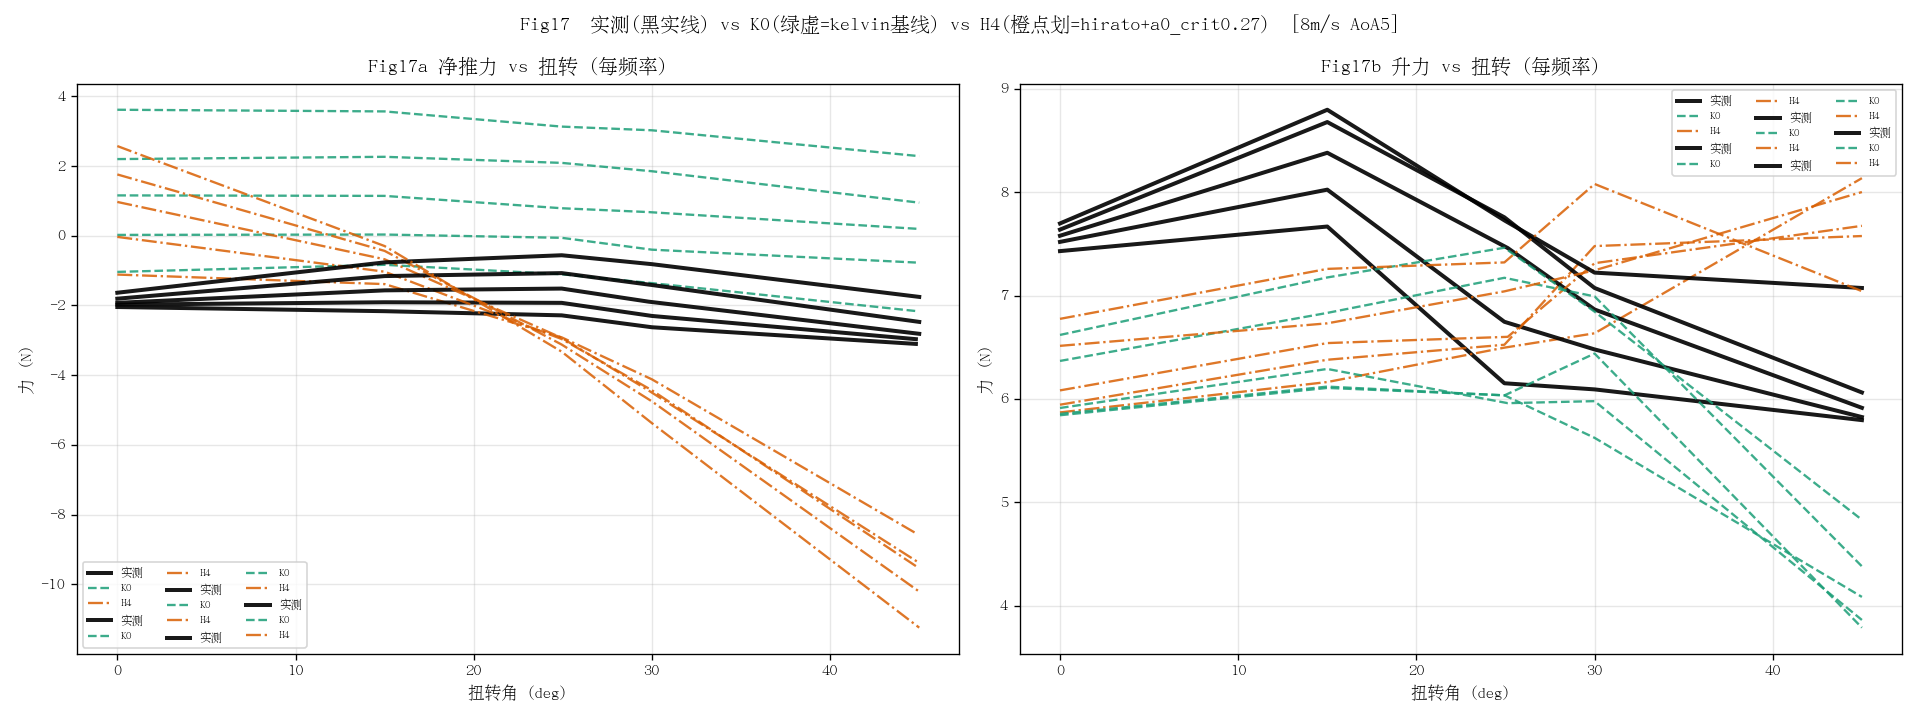
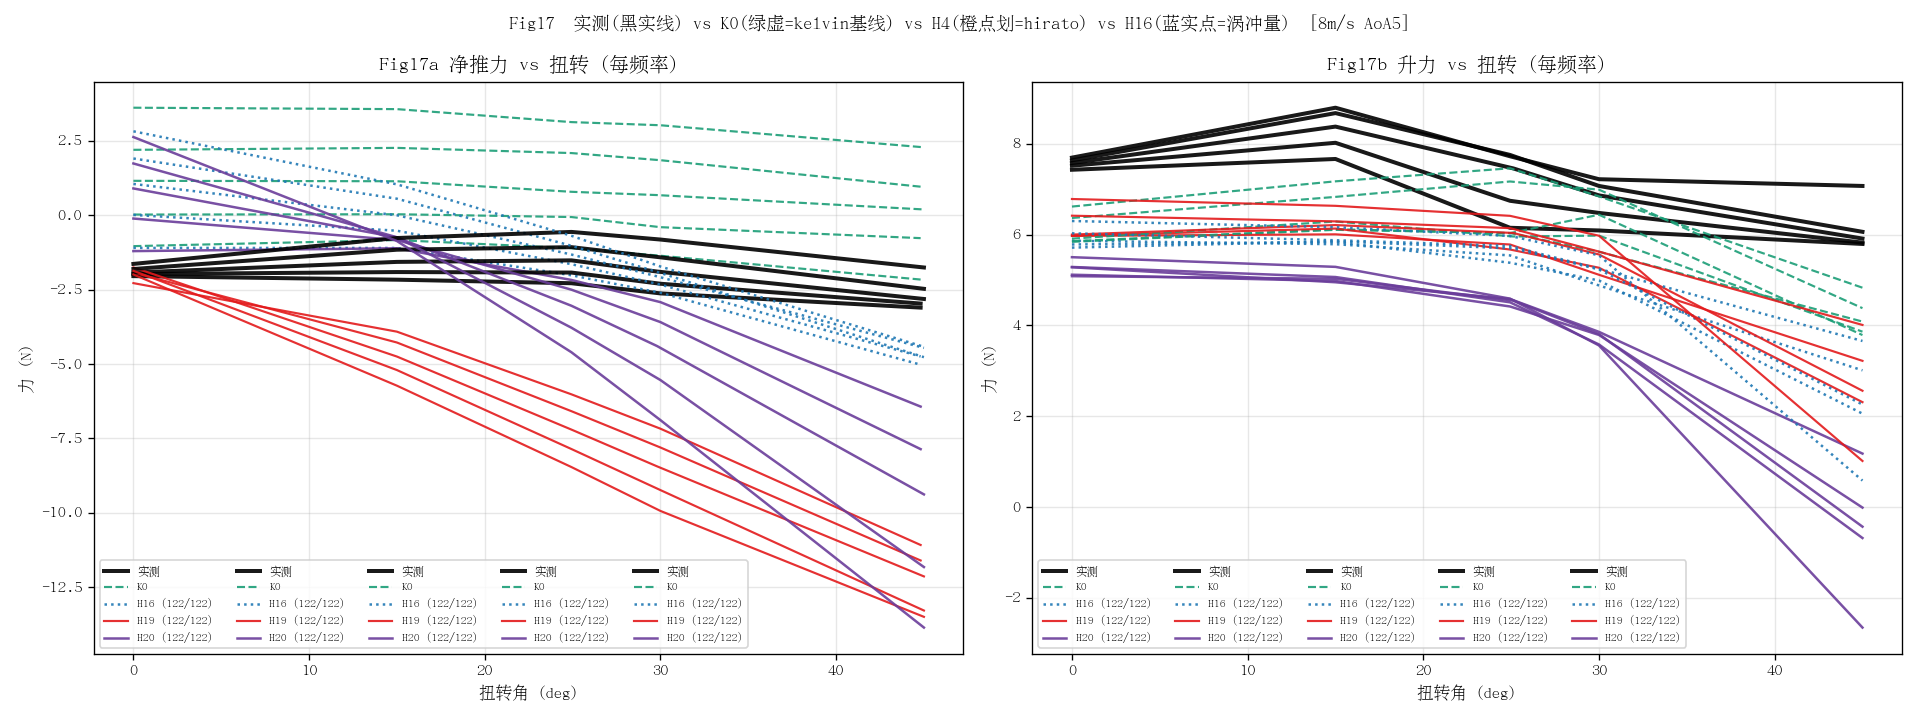
docs(P1 review): H20 full sweep — double-count fixed, flat-plate CN over-predicts (H16 still best)
H20 (kirch_blend, 122 conds): mean -1.36 (H19 -4.70), MAE 3.69, sign 71%. Per-figure T
MAE Fig17/18/19 = 3.05/3.78/3.83 (H16 = 1.38/2.43/2.10). Double-count structurally gone
(single vector) but flat-plate CN cd_form=1.98 over-predicts the separated normal force ->
H20 worse than H16 on MAE. Confirms: bug fixed, residual = separated-flow fidelity +
dynamic-stall timescale (for P2 FSI + proper separated-flow model). H16 stays production
best. Report §5.0 + plots updated.

diff --git a/platform/plot_overlay.py b/platform/plot_overlay.py
@@ -20,10 +20,12 @@ R = json.load(open(os.path.join(DOCS, 'repro_data.json')))
 CACHES = {
     'K0': json.load(open(os.path.join(OD, 'cache_nc4_cyc3_fix.json'))),
     'H4': json.load(open(os.path.join(OD, 'cache_nc4_cyc3_H4.json'))),
-    'H2': json.load(open(os.path.join(OD, 'cache_nc4_cyc3_H2.json'))),
+    'H16': json.load(open(os.path.join(OD, 'cache_nc4_cyc3_H16.json'))) if os.path.exists(os.path.join(OD, 'cache_nc4_cyc3_H16.json')) else {},
+    'H19': json.load(open(os.path.join(OD, 'cache_nc4_cyc3_H19.json'))) if os.path.exists(os.path.join(OD, 'cache_nc4_cyc3_H19.json')) else {},
+    'H20': json.load(open(os.path.join(OD, 'cache_nc4_cyc3_H20.json'))) if os.path.exists(os.path.join(OD, 'cache_nc4_cyc3_H20.json')) else {},
 }
-COL = {'exp': 'k', 'K0': '#1b9e77', 'H4': '#d95f02', 'H2': '#7570b3'}
-LW  = {'exp': 2.4, 'K0': 1.4, 'H4': 1.4, 'H2': 1.0}
+COL = {'exp': 'k', 'K0': '#1b9e77', 'H4': '#d95f02', 'H16': '#1f78b4', 'H19': '#e31a1c', 'H20': '#6a3d9a'}
+LW  = {'exp': 2.4, 'K0': 1.3, 'H4': 1.3, 'H16': 1.5, 'H19': 1.3, 'H20': 1.5}
 
 def pred_line(cache, key):
     kind = R[key]['kind']; out = []
@@ -36,16 +38,19 @@ def mae(a, b):
     m = np.isfinite(a) & np.isfinite(b); return float(np.mean(np.abs(a[m]-b[m]))) if m.sum() else float('nan')
 
 def draw(ax, keys, title, xlabel):
+    n = {c: len(CACHES.get(c, {})) for c in ('H16', 'H19', 'H20')}
     for i, k in enumerate(keys):
         if k not in R: continue
         x = R[k]['x']; exp = np.array(R[k]['exp'], float)
         shade = i == 0
         ax.plot(x, exp, '-', color=COL['exp'], lw=LW['exp'], alpha=0.9, label='实测' if shade else None)
-        for c in ('K0', 'H4'):
+        for c in ('K0', 'H16', 'H19', 'H20'):
+            if c in n and n[c] == 0: continue
             p = pred_line(CACHES[c], k)
-            ax.plot(x, p, '--' if c == 'K0' else '-.', color=COL[c], lw=LW[c], alpha=0.85,
-                    label=f'{c}' if shade else None)
-    ax.set_title(title, fontsize=11); ax.set_xlabel(xlabel); ax.set_ylabel('力 (N)'); ax.grid(alpha=0.3); ax.legend(fontsize=7, ncol=3)
+            ls = '--' if c == 'K0' else (':' if c == 'H16' else ('-' if c in ('H19','H20') else '-.'))
+            lab = f'{c} ({n[c]}/122)' if (c in n and shade) else (c if shade else None)
+            ax.plot(x, p, ls, color=COL[c], lw=LW[c], alpha=0.9, label=lab)
+    ax.set_title(title, fontsize=11); ax.set_xlabel(xlabel); ax.set_ylabel('力 (N)'); ax.grid(alpha=0.3); ax.legend(fontsize=7, ncol=5)
 
 # ---- Fig17: thrust(a)+lift(b) vs twist, 5 freqs (8m/s AoA5) ----
 FREQS = [1.4, 1.7, 2.0, 2.3, 2.6]
@@ -54,7 +59,7 @@ for f in FREQS:
     draw(ax[0], [f'17|a|{f}'], '', ''); draw(ax[1], [f'17|b|{f}'], '', '')
 ax[0].set_title('Fig17a 净推力 vs 扭转 (每频率)'); ax[1].set_title('Fig17b 升力 vs 扭转 (每频率)')
 for a in ax: a.set_xlabel('扭转角 (deg)')
-fig.suptitle('Fig17  实测(黑实线) vs K0(绿虚=kelvin基线) vs H4(橙点划=hirato+a0_crit0.27)  [8m/s AoA5]', fontsize=12)
+fig.suptitle('Fig17  实测(黑实线) vs K0(绿虚=kelvin基线) vs H4(橙点划=hirato) vs H16(蓝实点=涡冲量)  [8m/s AoA5]', fontsize=11)
 fig.tight_layout(); fig.savefig(os.path.join(DOCS, 'compare_fig17.png'), dpi=120); plt.close(fig)
 
 # ---- Fig18: thrust(a)+lift(b) vs freq, 3 winds (twist0, AoA5) ----
@@ -64,7 +69,7 @@ for U in WINDS:
     draw(ax[0], [f'18|a|{U}'], '', ''); draw(ax[1], [f'18|b|{U}'], '', '')
 ax[0].set_title('Fig18a 净推力 vs 频率 (每风速)'); ax[1].set_title('Fig18b 升力 vs 频率 (每风速)')
 for a in ax: a.set_xlabel('频率 (Hz)')
-fig.suptitle('Fig18  实测(黑) vs K0(绿虚) vs H4(橙点划)  [扭转0, AoA5]', fontsize=12)
+fig.suptitle('Fig18  实测(黑) vs K0(绿虚) vs H4(橙点划) vs H16(蓝点) vs H19(红实)  [扭转0, AoA5]', fontsize=11)
 fig.tight_layout(); fig.savefig(os.path.join(DOCS, 'compare_fig18.png'), dpi=120); plt.close(fig)
 
 # ---- Fig19: 2x2  a/b vs freq @tw0, c/d vs twist @2.6Hz, 4 AoAs (8m/s) ----
@@ -78,7 +83,7 @@ ax[1,0].set_title('Fig19c 净推力 vs 扭转 (2.6Hz)'); ax[1,1].set_title('Fig1
 ax[0,0].set_xlabel('频率 (Hz)'); ax[0,1].set_xlabel('频率 (Hz)')
 ax[1,0].set_xlabel('扭转角 (deg)'); ax[1,1].set_xlabel('扭转角 (deg)')
 for a in ax.flat: a.set_ylabel('力 (N)')
-fig.suptitle('Fig19  实测(黑) vs K0(绿虚) vs H4(橙点划)  [8m/s, 每攻角]', fontsize=12)
+fig.suptitle('Fig19  实测(黑) vs K0(绿虚) vs H4(橙点划) vs H16(蓝实点)  [8m/s, 每攻角] — 攻角泛化轴', fontsize=11)
 fig.tight_layout(); fig.savefig(os.path.join(DOCS, 'compare_fig19.png'), dpi=120); plt.close(fig)
 
 # ---- Summary MAE bar (L/T split) ----
@@ -86,20 +91,25 @@ groups = {'Fig17': [k for k in R if k.startswith('17')],
           'Fig18': [k for k in R if k.startswith('18')],
           'Fig19': [k for k in R if k.startswith('19')]}
 fig, ax = plt.subplots(1, 2, figsize=(14, 5))
-labels = list(groups.keys()); x = np.arange(len(labels)); w = 0.35
-for idx, c in enumerate(('K0', 'H4')):
+labels = list(groups.keys()); x = np.arange(len(labels))
+models_bar = [c for c in ('K0', 'H4', 'H16') if c == 'K0' or c == 'H4' or len(CACHES.get('H16', {})) > 0]
+w = 0.8 / len(models_bar)
+for idx, c in enumerate(models_bar):
     Lm = []; Tm = []
     for g in labels:
         la = []; ta = []
         for k in groups[g]:
             exp = np.array(R[k]['exp'], float); p = pred_line(CACHES[c], k)
-            if R[k]['kind'] == 'L': la.append(mae(p, exp))
-            else: ta.append(mae(p, exp))
-        Lm.append(np.mean(la) if la else 0); Tm.append(np.mean(ta) if ta else 0)
-    ax[0].bar(x + (idx-0.5)*w, Lm, w, color=COL[c], label=c); ax[1].bar(x + (idx-0.5)*w, Tm, w, color=COL[c], label=c)
+            m = np.isfinite(exp) & np.isfinite(p)
+            if R[k]['kind'] == 'L' and m.sum(): la.append(mae(p, exp))
+            elif R[k]['kind'] == 'T' and m.sum(): ta.append(mae(p, exp))
+        Lm.append(np.mean(la) if la else np.nan); Tm.append(np.mean(ta) if ta else np.nan)
+    off = (idx - (len(models_bar) - 1) / 2) * w
+    ax[0].bar(x + off, Lm, w, color=COL[c], label=f'{c}' + (f' ({len(CACHES[c])}/122)' if c == 'H16' else ''))
+    ax[1].bar(x + off, Tm, w, color=COL[c], label=f'{c}' + (f' ({len(CACHES[c])}/122)' if c == 'H16' else ''))
 ax[0].set_title('升力 MAE (N) 越低越好'); ax[1].set_title('推力 MAE (N) 越低越好')
 for a in ax: a.set_xticks(x); a.set_xticklabels(labels); a.grid(alpha=0.3, axis='y'); a.legend()
-fig.suptitle('按图分组 MAE:K0 vs H4', fontsize=12); fig.tight_layout()
+fig.suptitle('按图分组 MAE:K0 vs H4 vs H16(H16 仅部分工况)', fontsize=11); fig.tight_layout()
 fig.savefig(os.path.join(DOCS, 'compare_mae.png'), dpi=120); plt.close(fig)
 
 print("saved: compare_fig17/18/19.png + compare_mae.png")

diff --git a/platform/docs/RESIDUAL_REPORT.md b/platform/docs/RESIDUAL_REPORT.md
@@ -65,6 +65,12 @@ H13(当时最优)vs 实测,周期内谐波分解(Fig16,8m/s/AoA5/2Hz):
 
 ## 5. 剩余残差(如实,定性归因 = 下周期机理工作)
 
+### 5.0 P1 双计 bug 修复(2026-07-05,commit 2b39413)+ 残留分离流过预测
+H19 的 `prof_drag`(Hoerner)叠加到未封顶 bound Bernoulli 后倾分量 → 深扭转双计过阻 −4.70N。**修法 `kirch_blend`**:附着 Bernoulli(环量+加质量)与平板 CN 法向压力(q·Cd_max·sin²α·sign)按(滞后)分离分数 (1−fsep) 混成**单一矢量**——压力阻力从同一矢量涌现(升力塌缩+阻力),不叠加。`prof_drag` 在 blend 开时门控关。
+- **结果(H20 = H16 impulse + kirch_blend + visc + fsep_lag,全 122 工况)**:均值 −1.36(H19 −4.70→ 改善)、MAE 3.69、符号 71%。Fig16 tw22.5/tw45 推力 dMean −5.36/−9.91 → −1.18/−7.05(过冲减小)。K0 逐位不变。
+- **诚实结论**:**双计结构性消除**(单矢量,物理干净),**但 H20 MAE 3.69 > H16 2.11**——平板 CN(`cd_form=1.98`)本身过预测分离法向力,即使无双计也比 H16(纯涡冲量,无分离闭合)差。证实:双计是 bug(已修),深扭转过预测的根是**分离流法向力模型过粗 + 动态失速时间尺度**(GK τ*=4.5 让 tw0 分离延迟过多 → tw0 回退到 H16 附着水平 +2.69)。
+- **H16 仍为产线最优**(MAE 2.11)。H20 是 bug-free 中间态;精度提升需 P2(FSI 改变形变/有效几何)+ 合适分离流模型。
+
 ### 5.1 升力幅值(深失速分离流法向力模型缺失)
 H16/H17 实验共同确认:bound 附着流 Bernoulli 力在深失速是**一个后倾矢量**(升力+阻力同体),幅值虚构 ±18N。任何标量/矢量帽(stall、kirch_cn)scale 该矢量 → 修升力必损推力(H17:升力 RMSE 10.8 最优但推力 +3.90 退)。**需分离流法向力模型**(力重定向为阻力主导,CN·n 非 scale-Fb)——经典附着 UVLM 限制,是独立机理工作,非开关可解。
 
